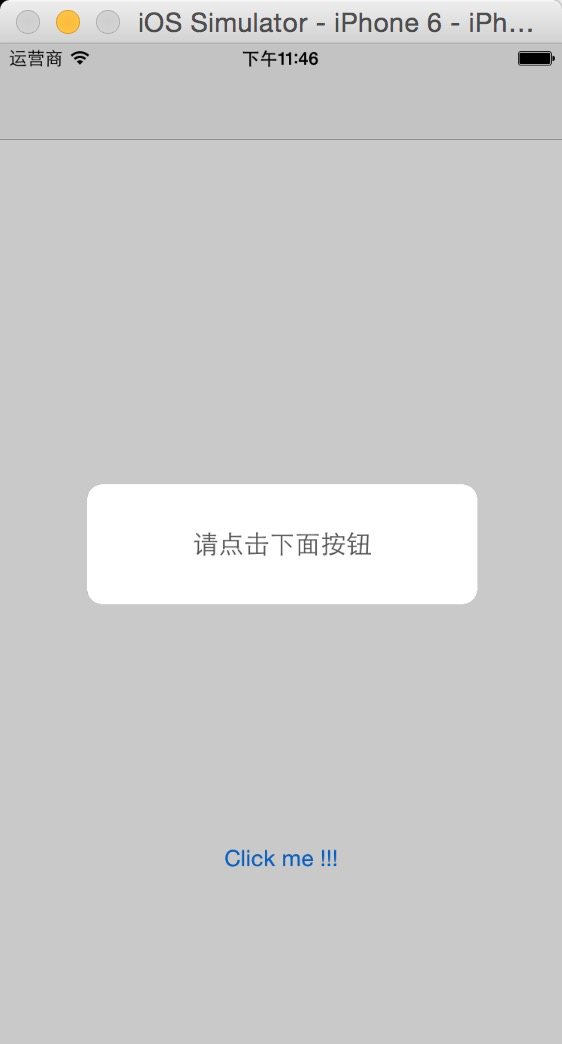
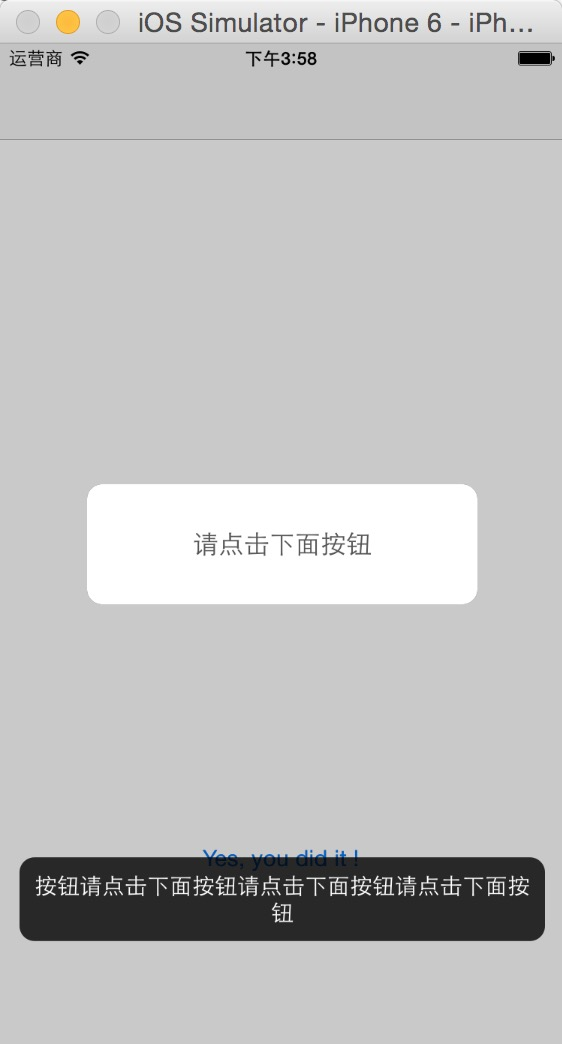
done

Changed region(s): [[0.0302, 0.7969, 0.968, 0.9195], [0.4235, 0.0307, 0.5747, 0.0613]]

diff --git a/GGProgressHUD.m b/GGProgressHUD.m
@@ -10,9 +10,12 @@
 
 #define kGGProgressHUDMaskType @"GGProgressHUDMaskType"
 
+#define MB_MULTILINE_TEXTSIZE(text, font, maxSize, mode) [text length] > 0 ? [text \
+boundingRectWithSize:maxSize options:(NSStringDrawingUsesLineFragmentOrigin) \
+attributes:@{NSFontAttributeName:font} context:nil].size : CGSizeZero;
 
 @interface GGProgressHUD ()
-
+@property (nonatomic, strong)GGProgressHUD *HUD;
 @end
 
 
@@ -84,10 +87,78 @@
     hud.dimBackground = NO;
     hud.backgroundColor = [UIColor colorWithWhite:0.000 alpha:0.210];
     hud.removeFromSuperViewOnHide = YES;
+    
     [hud hide:YES afterDelay:delay];
     
     return hud;
     
+}
+
+- (void)showTipTextOnly:(NSString *)text dealy:(NSTimeInterval)dealy{ //只有文字的
+    [self showTipTextOnly:text dealy:dealy position:GGProgressHUDPosition_center];
+}
+
+- (void)showTipTextOnly:(NSString *)text dealy:(NSTimeInterval)dealy position:(GGProgressHUDPosition)position{ //只有文字的
+    dispatch_async(dispatch_get_main_queue(), ^{
+        self.HUD.mode = MBProgressHUDModeText;
+        
+        
+        NSString *fixText = text?:@"";
+        _HUD.detailsLabelText = fixText;
+        _HUD.detailsLabelFont = [UIFont systemFontOfSize:15];
+        [_HUD setMinSize:CGSizeMake(100, 44)];
+        
+        CGSize screenSize = [[UIScreen mainScreen] bounds].size;
+        
+        switch (position) {
+            case GGProgressHUDPosition_top:{
+                CGSize detailsLabelSize = MB_MULTILINE_TEXTSIZE(_HUD.detailsLabelText, _HUD.detailsLabelFont, CGSizeMake(screenSize.width - 4 * self.margin,MAXFLOAT), NSLineBreakByWordWrapping);
+                CGFloat yoffset = screenSize.height/2 - detailsLabelSize.height / 2 - self.margin * 1.5 - 64;
+                [_HUD setYOffset:-yoffset];
+            }
+                break;
+            case GGProgressHUDPosition_bottom:{
+                CGSize detailsLabelSize = MB_MULTILINE_TEXTSIZE(_HUD.detailsLabelText, _HUD.detailsLabelFont, CGSizeMake(screenSize.width - 4 * self.margin,MAXFLOAT), NSLineBreakByWordWrapping);
+                CGFloat yoffset = screenSize.height/2 - detailsLabelSize.height / 2 - self.margin * 1.5 - 64;
+                [_HUD setYOffset:yoffset];
+            }
+                break;
+            default:
+                break;
+        }
+        
+        [_HUD show:YES];
+        [_HUD hide:YES afterDelay:dealy];
+    });
+}
+
+
+- (void)showProgressWithText:(NSString *)text dealy:(NSTimeInterval)dealy{
+    dispatch_async(dispatch_get_main_queue(), ^{
+        [self.HUD setMode:MBProgressHUDModeIndeterminate];
+        NSString *fixText = text?:@"";
+        _HUD.detailsLabelText = fixText;
+        _HUD.detailsLabelFont = [UIFont systemFontOfSize:15];
+        [_HUD show:YES];
+        [_HUD hide:YES afterDelay:dealy];
+    });
+}
+
+
+#pragma mark - Other
+
+-(MBProgressHUD *)HUD{
+    [_HUD removeFromSuperview];
+    _HUD = nil;
+    UIWindow *window = [[[UIApplication sharedApplication] delegate] window];
+    _HUD = [self initWithWindow:window];
+    [window addSubview:_HUD];
+    
+    _HUD.delegate = nil;
+    _HUD.margin = 10.f;
+    _HUD.dimBackground = NO;
+    _HUD.removeFromSuperViewOnHide = YES;
+    return _HUD;
 }
 
 

diff --git a/GGProgressHUD/ViewController.m b/GGProgressHUD/ViewController.m
@@ -19,12 +19,11 @@
 - (void)viewDidLoad {
     [super viewDidLoad];
     // Do any additional setup after loading the view, typically from a nib.
-    UIWindow *window = [[[UIApplication sharedApplication] delegate] window];
-    [window setBackgroundColor:[UIColor redColor]];
     
-//    [self showTip:@"请点击下面按钮"];
     [GGShowTip setMaskType:GGProgressHUDMaskTypeNone];
     [GGProgressHUD showTip:@"请点击下面按钮" afterDelay:30];
+    
+//    [GGShowTip showProgressWithText:@"safd" dealy:5];
 }
 
 - (void)didReceiveMemoryWarning {
@@ -37,33 +36,8 @@
 
 - (IBAction)clickAction:(id)sender {
     [self.tipButton setTitle:@"Yes, you did it !" forState:UIControlStateNormal];
+    [GGShowTip showTipTextOnly:@"按钮请点击下面按钮请点击下面按钮请点击下面按钮" dealy:50 position:GGProgressHUDPosition_bottom];
 }
 
-
-- (void)showTip:(NSString *)text{ //自定义view
-    
-    UIWindow *window = [[[UIApplication sharedApplication] delegate] window];
-    GGProgressHUD *hud = [GGProgressHUD showHUDAddedTo:window animated:YES];
-    
-    // Configure CustomView
-    UILabel *backg = [[UILabel alloc] initWithFrame:CGRectMake(0, 0, 260, 80)];
-    backg.backgroundColor = [UIColor whiteColor];
-    backg.textAlignment = NSTextAlignmentCenter;
-    backg.textColor = [UIColor darkGrayColor];
-    backg.layer.cornerRadius = 10;
-    backg.layer.masksToBounds = YES;
-    
-    NSString *fixText = text?:@"";
-    backg.text = fixText;
-    
-    hud.margin = 0.f;
-    hud.mode = MBProgressHUDModeCustomView;
-    hud.customView = backg;
-    hud.dimBackground = NO;
-    hud.backgroundColor = [UIColor colorWithWhite:0.000 alpha:0.210];
-    hud.removeFromSuperViewOnHide = YES;
-    [hud show:YES];
-    
-}
 
 @end

diff --git a/GGProgressHUD.h b/GGProgressHUD.h
@@ -12,13 +12,24 @@
 
 typedef NS_ENUM(NSUInteger, GGProgressHUDMaskType) {
     GGProgressHUDMaskTypeNone = 1,  // allow user interactions while HUD is displayed
-    GGProgressHUDMaskTypeClear = 2,     // don't allow user interactions
+    GGProgressHUDMaskTypeClear = 2, // don't allow user interactions
+};
+
+typedef NS_ENUM(NSInteger, GGProgressHUDPosition) {
+    GGProgressHUDPosition_top,     // show Top
+    GGProgressHUDPosition_center,
+    GGProgressHUDPosition_bottom
 };
 
 @interface GGProgressHUD : MBProgressHUD
 @property (nonatomic, unsafe_unretained) GGProgressHUDMaskType maskType;
 
 + (instancetype)sharedInstance;
-+ (instancetype)showTip:(NSString *)text afterDelay:(NSTimeInterval)delay;
++ (instancetype)showTip:(NSString *)text afterDelay:(NSTimeInterval)delay; //自定义view
+
+- (void)showTipTextOnly:(NSString *)text dealy:(NSTimeInterval)dealy;
+- (void)showProgressWithText:(NSString *)text dealy:(NSTimeInterval)dealy;
+
+- (void)showTipTextOnly:(NSString *)text dealy:(NSTimeInterval)dealy position:(GGProgressHUDPosition)position;
 
 @end

diff --git a/README.md b/README.md
@@ -5,22 +5,21 @@ A HUD inherit of MBProgressHUD
 ![image](https://github.com/Otherplayer/GGProgressHUD/raw/master/Others/screenshot.png)
 
 
-## New  ##
+## Use  ##
 ```objective-c
 
-typedef NS_ENUM(NSUInteger, GGProgressHUDMaskType) {
-    GGProgressHUDMaskTypeNone = 1,    // allow user interactions while HUD is displayed
-    GGProgressHUDMaskTypeClear = 2,   // don't allow user interactions
-};
+[GGShowTip setMaskType:GGProgressHUDMaskTypeNone];
 
-@property (nonatomic, assign) GGProgressHUDMaskType maskType;
+[GGProgressHUD showTip:@"请点击下面按钮" afterDelay:30];
+
+[GGShowTip showTipTextOnly:@"请点击下面按钮" dealy:50 position:GGProgressHUDPosition_top];
 
 
 ```
 
 ## [CocoaPods](http://cocoapods.org/)
 
-Add TTSwitch to your `Podfile` and `pod install`.
+Add GGProgressHUD to your `Podfile` and `pod install`.
 
 ```ruby
 pod 'GGProgressHUD', '~> 0.0.2'
